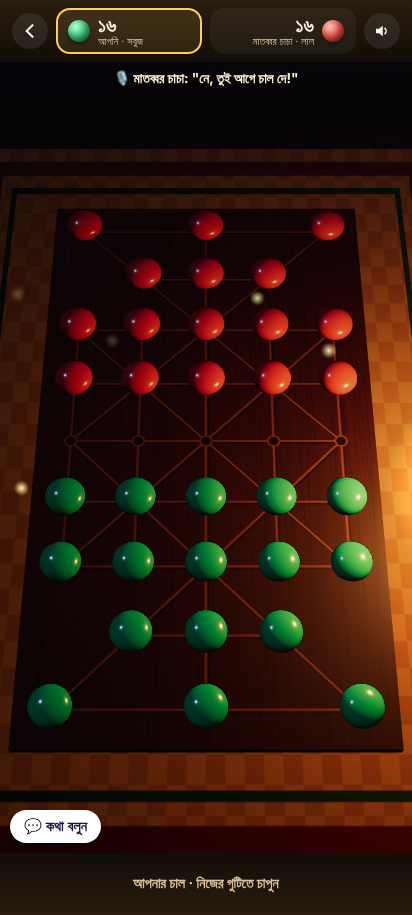
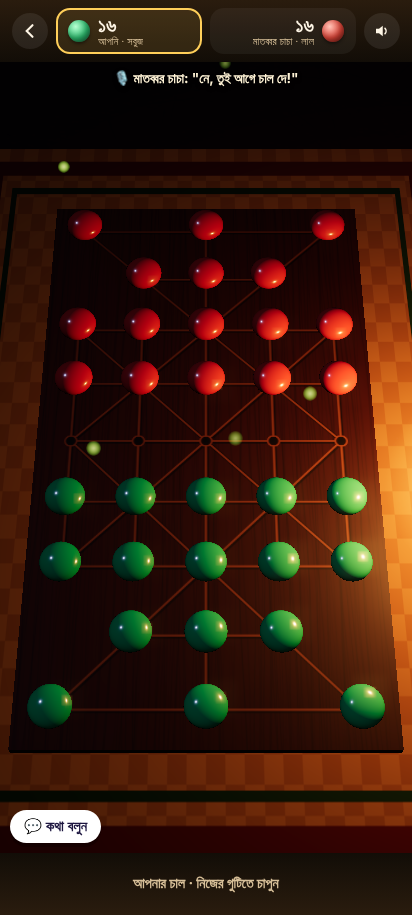
ঘুড়ি, দাবা, ক্যারম, ষোলোগুটি, বাঘবন্দি: হালকা গ্লো (দুর্বল ফোনে বন্ধ)
Claude-Session: https://claude.ai/code/session_01Sj7bcfDAG9UkavWmhC1U6s

diff --git a/games/ghuri/index.html b/games/ghuri/index.html
@@ -145,6 +145,7 @@ canvas{position:absolute;inset:0;width:100%;height:100%;display:block}
 <script src="/js/share-card.js"></script>
 <script type="module">
 import * as THREE from "/js/vendor/three.module.min.js";
+import { composerFor } from "/js/kh-scene.js";
 import { initializeApp } from "https://www.gstatic.com/firebasejs/10.12.2/firebase-app.js";
 import { getAuth, onAuthStateChanged } from "https://www.gstatic.com/firebasejs/10.12.2/firebase-auth.js";
 import { getFirestore, doc, getDoc, setDoc, onSnapshot, collection, query, orderBy, limit, serverTimestamp } from "https://www.gstatic.com/firebasejs/10.12.2/firebase-firestore.js";
@@ -367,7 +368,8 @@ function end() {
 $('shareBtn').onclick = () => { const t = `সাকরাইনে ${bn(G ? G.cuts : 0)}টা ঘুড়ি কাটলাম, ${bn(lastScore)} পয়েন্ট! 🪁 ভো কাট্টা! ${location.origin}/games/ghuri/`; try { navigator.clipboard.writeText(t).then(() => { $('shareBtn').textContent = 'কপি হয়েছে ✓'; setTimeout(() => $('shareBtn').textContent = 'কপি করে শেয়ার', 2000); }, () => {}); } catch (e) {} };
 
 /* ---------- লুপ ---------- */
-function resize() { const r = $('stage').getBoundingClientRect(); W = r.width; H = r.height; if (renderer) renderer.setSize(W, H, false); cam.aspect = W / H; cam.fov = W / H < .8 ? 66 : 54; cam.updateProjectionMatrix(); XL = Math.max(12, Math.tan(cam.fov * Math.PI / 360) * cam.aspect * (9 - PLANE_Z) - 3); }
+let composer = null;
+function resize() { const r = $('stage').getBoundingClientRect(); W = r.width; H = r.height; if (renderer) renderer.setSize(W, H, false); if (!composer && renderer) composer = composerFor(THREE, renderer, scene, cam, { strength: 0.45, threshold: .88 }); if (composer) { composer.setPixelRatio(renderer.getPixelRatio()); composer.setSize(W, H); } cam.aspect = W / H; cam.fov = W / H < .8 ? 66 : 54; cam.updateProjectionMatrix(); XL = Math.max(12, Math.tan(cam.fov * Math.PI / 360) * cam.aspect * (9 - PLANE_Z) - 3); }
 addEventListener('resize', resize);
 cam.position.set(0, 2.2, 9); cam.lookAt(0, 20, PLANE_Z);
 function loop(ts) {
@@ -378,7 +380,7 @@ function loop(ts) {
   fwGeo.attributes.position.needsUpdate = true; fwGeo.attributes.color.needsUpdate = true;
   latai.rotation.x = G && pdown ? latai.rotation.x - .2 : latai.rotation.x;
   const lx = G && G.me ? clamp(G.me.pos.x * .015, -.2, .2) : 0; cam.position.x += (lx * 4 - cam.position.x) * .03; cam.lookAt(cam.position.x * .5, 20, PLANE_Z);
-  if (renderer) renderer.render(scene, cam); requestAnimationFrame(loop);
+  if (renderer) { if (composer) composer.render(); else renderer.render(scene, cam); } requestAnimationFrame(loop);
 }
 resize(); if (renderer) renderer.compile(scene, cam);
 last = performance.now(); requestAnimationFrame(loop);

diff --git a/games/chess/index.html b/games/chess/index.html
@@ -158,6 +158,7 @@ canvas{position:absolute;inset:0;width:100%;height:100%;display:block}
 <script src="/js/share-card.js"></script>
 <script type="module">
 import * as THREE from "/js/vendor/three.module.min.js";
+import { composerFor } from "/js/kh-scene.js";
 import * as C from "/js/chess-engine.js";
 import { initializeApp } from "https://www.gstatic.com/firebasejs/10.12.2/firebase-app.js";
 import { getAuth, onAuthStateChanged } from "https://www.gstatic.com/firebasejs/10.12.2/firebase-auth.js";
@@ -366,7 +367,8 @@ function placeCam() {
   const dist = Math.max(asp < 1.2 ? 11 : 12.5, need), c = Math.cos(camA), s = Math.sin(camA);
   cam.position.set(Math.cos(el) * dist * s, Math.sin(el) * dist, Math.cos(el) * dist * c); cam.lookAt(0, 0, asp < .8 ? .15 * c : .25 * c);
 }
-function resize() { const r = $('stage').getBoundingClientRect(); W = r.width; H = r.height; if (renderer) renderer.setSize(W, H, false); cam.aspect = W / H; cam.fov = W / H < .8 ? 52 : 42; cam.updateProjectionMatrix(); placeCam(); }
+let composer = null;
+function resize() { const r = $('stage').getBoundingClientRect(); W = r.width; H = r.height; if (renderer) renderer.setSize(W, H, false); if (!composer && renderer) composer = composerFor(THREE, renderer, scene, cam, { strength: 0.25, threshold: .88 }); if (composer) { composer.setPixelRatio(renderer.getPixelRatio()); composer.setSize(W, H); } cam.aspect = W / H; cam.fov = W / H < .8 ? 52 : 42; cam.updateProjectionMatrix(); placeCam(); }
 addEventListener('resize', resize);
 const ease = k => k < .5 ? 2 * k * k : 1 - Math.pow(-2 * k + 2, 2) / 2;
 function loop(ts) {
@@ -374,7 +376,7 @@ function loop(ts) {
   anims = anims.filter(a => { a.t += dt / a.dur; const k = Math.min(1, a.t), e = ease(k); a.m.position.lerpVectors(a.from, a.to, e); a.m.position.y += Math.sin(k * Math.PI) * a.hop; if (a.spin) { a.m.rotation.x += dt * 7; a.m.rotation.z += dt * 4; a.m.scale.setScalar(.95 * (1 - k * .5)); } if (k >= 1) { a.res(); return false; } return true; });
   selRing.material.opacity = .65 + Math.sin(T * 6) * .3; checkM.material.opacity = .4 + Math.sin(T * 7) * .2; marks.forEach(m => { if (m.visible) m.scale.setScalar(1 + Math.sin(T * 5) * .1); });
   let d = camT - camA; d = Math.atan2(Math.sin(d), Math.cos(d)); if (Math.abs(d) > .001) { camA += d * Math.min(1, dt * 3); placeCam(); }
-  if (renderer) renderer.render(scene, cam); requestAnimationFrame(loop);
+  if (renderer) { if (composer) composer.render(); else renderer.render(scene, cam); } requestAnimationFrame(loop);
 }
 lv = store.get('kh-chess-lv', 1); rebuild(); hud(); resize(); $('tipB').hidden = $('undoB').hidden = true;
 if (renderer) renderer.compile(scene, cam);

diff --git a/games/bagh/index.html b/games/bagh/index.html
@@ -147,6 +147,7 @@ canvas{position:absolute;inset:0;width:100%;height:100%;display:block}
 <script src="/js/share-card.js"></script>
 <script type="module">
 import * as THREE from "/js/vendor/three.module.min.js";
+import { composerFor } from "/js/kh-scene.js";
 import { initializeApp } from "https://www.gstatic.com/firebasejs/10.12.2/firebase-app.js";
 import { getAuth, onAuthStateChanged } from "https://www.gstatic.com/firebasejs/10.12.2/firebase-auth.js";
 import { getFirestore, doc, getDoc, setDoc, onSnapshot, collection, query, orderBy, limit, serverTimestamp } from "https://www.gstatic.com/firebasejs/10.12.2/firebase-firestore.js";
@@ -470,7 +471,8 @@ function fit() {
   camD = hi; placeCam();
 }
 function placeCam() { const tl = tilt(), c = Math.cos(camA), s = Math.sin(camA), z0 = Math.sin(tl) * camD + 1; cam.position.set(z0 * s, Math.cos(tl) * camD, z0 * c); cam.lookAt(1 * s, 0, 1 * c); }
-function resize() { const r = $('stage').getBoundingClientRect(); W = r.width; H = r.height; if (renderer) renderer.setSize(W, H, false); fit(); }
+let composer = null;
+function resize() { const r = $('stage').getBoundingClientRect(); W = r.width; H = r.height; if (renderer) renderer.setSize(W, H, false); if (!composer && renderer) composer = composerFor(THREE, renderer, scene, cam, { strength: 0.35, threshold: .88 }); if (composer) { composer.setPixelRatio(renderer.getPixelRatio()); composer.setSize(W, H); } fit(); }
 addEventListener('resize', resize);
 const ease = k => k < .5 ? 2 * k * k : 1 - Math.pow(-2 * k + 2, 2) / 2;
 function loop(ts) {
@@ -488,7 +490,7 @@ function loop(ts) {
   birds.forEach(b => { const u = b.userData, ang = T * u.sp + u.p; b.position.set(Math.cos(ang) * u.r, u.y + Math.sin(T * .5 + u.p), -30 + Math.sin(ang) * u.r * .4); b.rotation.y = -ang; b.scale.y = 1; b.geometry.attributes.position.array[1] = b.geometry.attributes.position.array[7] = Math.sin(T * 9 + u.p) * .35; b.geometry.attributes.position.needsUpdate = true; });
   selRing.material.opacity = .65 + Math.sin(T * 6) * .3; dots.forEach(d => { if (d.visible) d.scale.setScalar(1 + Math.sin(T * 5) * .12); });
   let d = camT - camA; d = Math.atan2(Math.sin(d), Math.cos(d)); if (Math.abs(d) > .001) { camA += d * Math.min(1, dt * 3); placeCam(); }
-  if (renderer) renderer.render(scene, cam); requestAnimationFrame(loop);
+  if (renderer) { if (composer) composer.render(); else renderer.render(scene, cam); } requestAnimationFrame(loop);
 }
 lv = store.get('kh-bagh-lv', 1); placeAll(); hud(); resize();
 if (renderer) renderer.compile(scene, cam);

diff --git a/games/sholo/index.html b/games/sholo/index.html
@@ -145,6 +145,7 @@ canvas{position:absolute;inset:0;width:100%;height:100%;display:block}
 <script src="/js/share-card.js"></script>
 <script type="module">
 import * as THREE from "/js/vendor/three.module.min.js";
+import { composerFor } from "/js/kh-scene.js";
 import { initializeApp } from "https://www.gstatic.com/firebasejs/10.12.2/firebase-app.js";
 import { getAuth, onAuthStateChanged } from "https://www.gstatic.com/firebasejs/10.12.2/firebase-auth.js";
 import { getFirestore, doc, getDoc, setDoc, onSnapshot, collection, query, orderBy, limit, serverTimestamp } from "https://www.gstatic.com/firebasejs/10.12.2/firebase-firestore.js";
@@ -458,7 +459,8 @@ function fit() {
   camD = hi; placeCam();
 }
 function placeCam() { const tl = tilt(), c = Math.cos(camA), s = Math.sin(camA), z0 = Math.sin(tl) * camD + .6; cam.position.set(z0 * s, Math.cos(tl) * camD, z0 * c); cam.lookAt(.6 * s, 0, .6 * c); }
-function resize() { const r = $('stage').getBoundingClientRect(); W = r.width; H = r.height; if (renderer) renderer.setSize(W, H, false); fit(); }
+let composer = null;
+function resize() { const r = $('stage').getBoundingClientRect(); W = r.width; H = r.height; if (renderer) renderer.setSize(W, H, false); if (!composer && renderer) composer = composerFor(THREE, renderer, scene, cam, { strength: 0.35, threshold: .88 }); if (composer) { composer.setPixelRatio(renderer.getPixelRatio()); composer.setSize(W, H); } fit(); }
 addEventListener('resize', resize);
 const ease = k => k < .5 ? 2 * k * k : 1 - Math.pow(-2 * k + 2, 2) / 2;
 function loop(ts) {
@@ -469,7 +471,7 @@ function loop(ts) {
   const fl = 1 + Math.sin(T * 13) * .04 + Math.sin(T * 7.3) * .05; lamp.intensity = 190 * fl; halo.material.opacity = .75 * fl; glass.material.emissiveIntensity = 1.5 * fl;
   selRing.material.opacity = .65 + Math.sin(T * 6) * .3; dots.forEach(d => { if (d.visible) d.scale.setScalar(1 + Math.sin(T * 5) * .12); });
   let d = camT - camA; d = Math.atan2(Math.sin(d), Math.cos(d)); if (Math.abs(d) > .001) { camA += d * Math.min(1, dt * 3); placeCam(); }
-  if (renderer) renderer.render(scene, cam); requestAnimationFrame(loop);
+  if (renderer) { if (composer) composer.render(); else renderer.render(scene, cam); } requestAnimationFrame(loop);
 }
 lv = store.get('kh-sholo-lv', 1); placeAll(); hud(); resize();
 if (renderer) renderer.compile(scene, cam);

diff --git a/games/carrom/index.html b/games/carrom/index.html
@@ -188,6 +188,7 @@ input[type=range]:disabled{opacity:.4}
 <script src="/js/share-card.js"></script>
 <script type="module">
 import * as THREE from "/js/vendor/three.module.min.js";
+import { composerFor } from "/js/kh-scene.js";
 import { initializeApp } from "https://www.gstatic.com/firebasejs/10.12.2/firebase-app.js";
 import { getAuth, onAuthStateChanged } from "https://www.gstatic.com/firebasejs/10.12.2/firebase-auth.js";
 import { getFirestore, doc, getDoc, setDoc, onSnapshot, collection, query, orderBy, limit, serverTimestamp } from "https://www.gstatic.com/firebasejs/10.12.2/firebase-firestore.js";
@@ -536,12 +537,13 @@ function fit() {
 }
 function placeCam() { const [x, z] = toWa(camA, 0, camDir[1] * camD + 2), [lx, lz] = toWa(camA, 0, 2); cam.position.set(x, camDir[0] * camD, z); cam.lookAt(lx, 0, lz); }
 function toWa(a, x, z) { const c = Math.cos(a), s = Math.sin(a); return [x * c + z * s, -x * s + z * c]; }
-function resize() { const r = $('stage').getBoundingClientRect(); W = r.width; H = r.height; if (renderer) renderer.setSize(W, H, false); fit(); }
+let composer = null;
+function resize() { const r = $('stage').getBoundingClientRect(); W = r.width; H = r.height; if (renderer) renderer.setSize(W, H, false); if (!composer && renderer) composer = composerFor(THREE, renderer, scene, cam, { strength: 0.25, threshold: .88 }); if (composer) { composer.setPixelRatio(renderer.getPixelRatio()); composer.setSize(W, H); } fit(); }
 addEventListener('resize', resize);
 function loop(ts) {
   const dt = Math.min(.04, (ts - last) / 1000 || 0); last = ts; if (S && !S.over) frame(dt); fx(dt);
   let d = camT - camA; d = Math.atan2(Math.sin(d), Math.cos(d)); if (Math.abs(d) > .001) { camA += d * Math.min(1, dt * 3.5); placeCam(); }
-  if (renderer) renderer.render(scene, cam); requestAnimationFrame(loop);
+  if (renderer) { if (composer) composer.render(); else renderer.render(scene, cam); } requestAnimationFrame(loop);
 }
 
 function endGame(win) {
